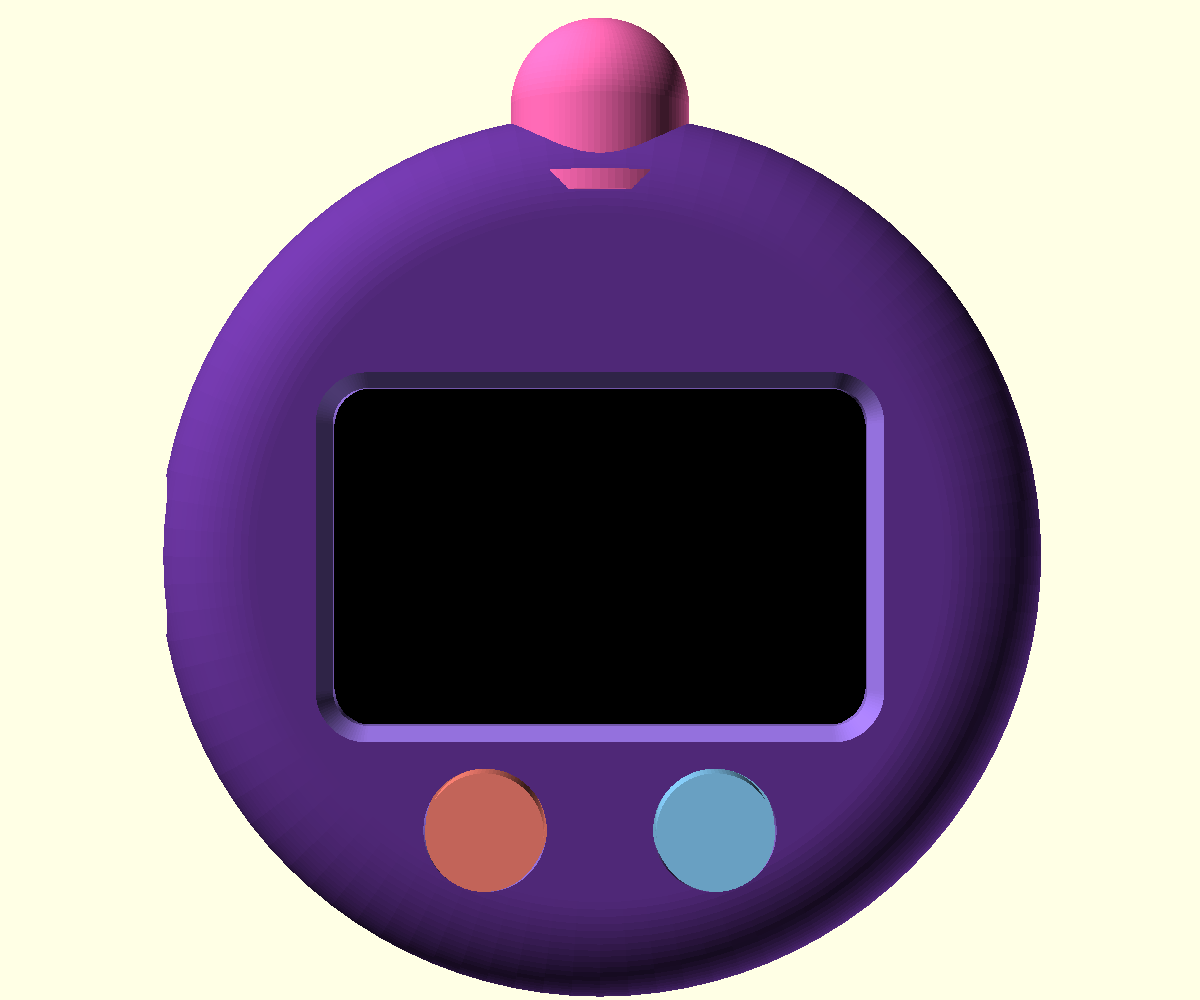
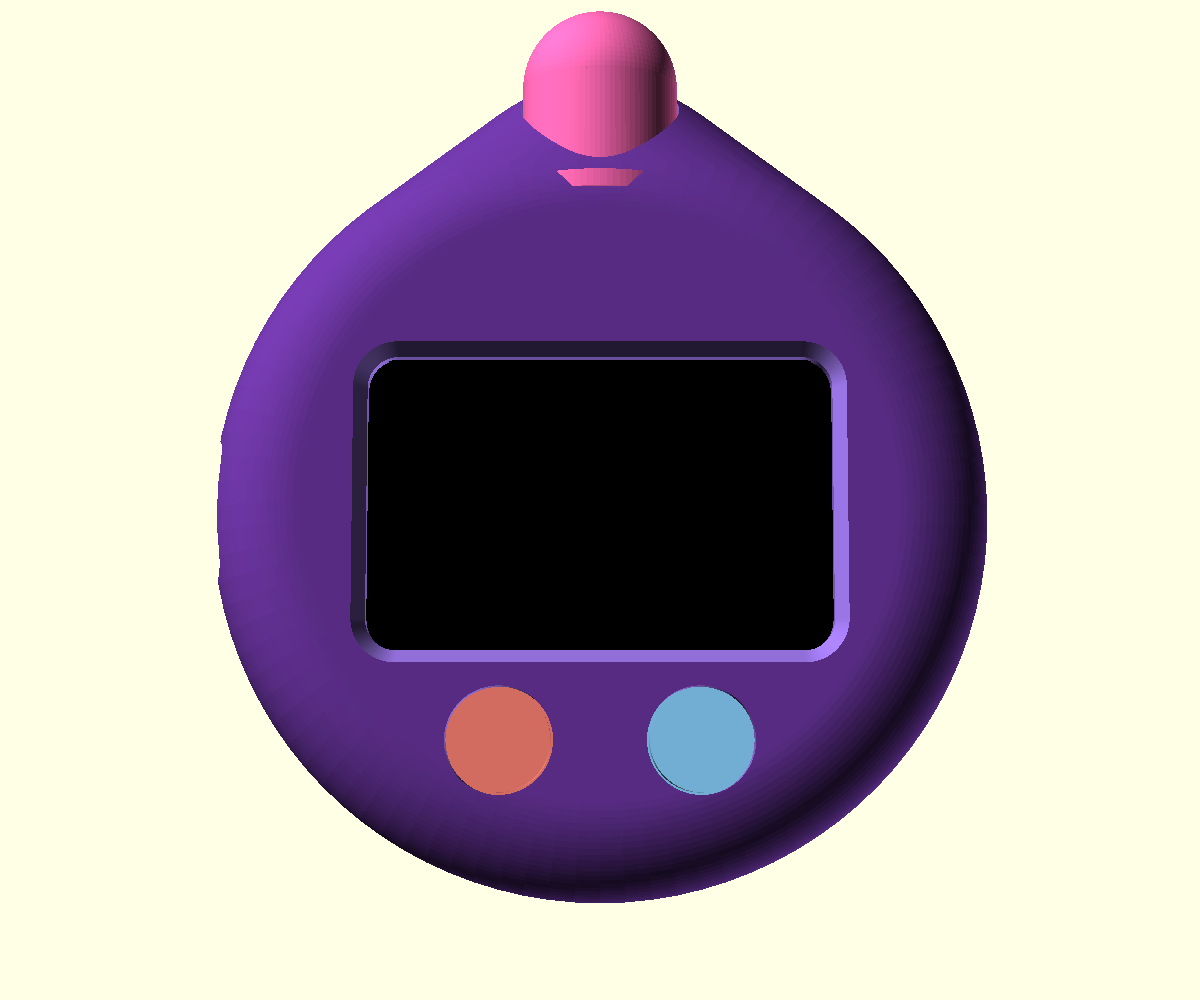
hardware: case v2 — sitting blob, screen tilted up at the user
The buddy now rests on a flat bottom with the whole face assembly
(window, buttons, board mount) leaned back 25 degrees so the screen
looks up at you. Boop dome stays on the crown, menu/reject below the
screen. Shell screws now drive through deep wells in the back; face
button switches glue onto columns in the body bowl.

diff --git a/hardware/case/README.md b/hardware/case/README.md
@@ -1,82 +1,79 @@
-# Boop Pebble Case (v1 form prototype)
+# Boop Pebble Case v2 — sitting blob (form prototype)
 
-Round tamagotchi-style enclosure for the Waveshare ESP32-S3-Touch-AMOLED-1.64
-("Boop Pebble"). 64 mm wide, 23 mm deep. Flat face with a landscape screen
-window, menu/reject button caps below the screen, big boop dome on top,
-domed back, USB-C slot on the left.
+Desk-buddy enclosure for the Waveshare ESP32-S3-Touch-AMOLED-1.64
+("Boop Pebble"). The buddy sits on a flat bottom; the whole face —
+screen window, menu/reject caps below it, and the board behind — tilts
+back 25° from vertical so the screen looks up at you. Big boop dome on
+the crown, soft domed back. Roughly 64 mm wide × 62 mm tall × 58 mm deep.
 
 Everything is generated from `boop-pebble-case.scad` (OpenSCAD). Compiled
-STLs are in `stl/`, preview renders in `renders/`.
+STLs are in `stl/` (gitignored, regenerate below), renders in `renders/`.
 
 ## What to print
 
 | File | Qty | Notes |
 | --- | --- | --- |
-| `stl/front_shell.stl` | 1 | Face already oriented down on the bed. No supports needed (window bridges are short). |
-| `stl/back_shell.stl` | 1 | Parting plane down. No supports. |
+| `stl/front_shell.stl` | 1 | Faceplate, face down on the bed. No supports (window bridges are short). |
+| `stl/back_shell.stl` | 1 | Body bowl, parting plane down. No supports; the flat tummy prints as a steep facet. |
 | `stl/boop_cap.stl` | 1 | Print **with supports** (flange overhangs). |
 | `stl/face_cap.stl` | 2 | Head-face down. Tiny part — print both at once. |
 
 Suggested settings: PLA or PETG, 0.2 mm layers, 3 walls, 15 % infill.
-Total print time roughly 3–4 h on a typical bed-slinger.
 
-## Measure before trusting (v1 caveats)
+## Measure before trusting (calipers, then regenerate)
 
-This is a **check-fit prototype**. Three dimensions were not measurable from
-the docs and are parameters at the top of the `.scad` — verify with calipers
-against the real board and regenerate if they differ:
+Parameters at the top of the `.scad`, unverifiable from docs:
 
-- `display_stack` (default 2.5) — height of the glass above the PCB front
-  face. Drives `standoff_h`; wrong value either crushes the glass or leaves
-  the board rattling.
-- `screen_dx` (default 0) — the active area is probably **not** centered on
-  the board (there is likely an FPC chin), which also explains why the spec'd
-  M2 holes land right at the window corners. Measure the offset of the lit
-  area from board center along the long axis and set it; the window shifts,
-  the standoffs stay at the spec'd 22.86 × 38.50 mm hole pattern.
-- `usb_w` / `usb_h` / `usb_z` — the USB-C slot is deliberately oversized
-  until the connector position is measured. The board mounts with USB-C
-  facing **left**.
+- `display_stack` (2.5) — glass height above the PCB front face; drives
+  standoff height. Wrong → crushed glass or rattling board.
+- `screen_dx` (0) — the active area is probably offset from board center
+  (FPC chin). Measure and set; the window shifts, the standoffs stay on
+  the spec'd 22.86 × 38.50 mm hole pattern.
+- `usb_w` / `usb_h` / `usb_z` — USB-C slot is oversized until measured.
+  The board mounts with USB-C toward the buddy's right (your **left** as
+  you face it).
+- `tilt` (25°) — how far the face leans back. Taste parameter.
 
-Known dimensions baked in from `research/eng/waveshare-amoled-port.md`:
+Known dims baked in from `research/eng/waveshare-amoled-port.md`:
 PCB 28.6 × 43.5 mm, M2 holes at 22.86 × 38.50 mm, active area 22.3 × 36.1 mm.
 
 ## Hardware (not printed)
 
 - 4× M2×5 self-tapping screws — board to standoffs (from the back of the PCB)
-- 3× M2×8 self-tapping screws — back shell to front shell bosses
-- 3× 6×6×4.3 mm through-hole tact switches, glued: two on the round pads
-  inside the back shell (under the face caps), one on the block behind the
-  boop bore (plunger facing the boop pusher)
-- LiPo up to ~602030 (6 × 20 × 30 mm), 1.25 mm plug — lives in the cavity
-  behind the board. **Meter connector polarity first** (per the port doc).
+- 3× M2×10 self-tapping screws — shell screws; they sit in deep wells and
+  drive through the three small channel openings on the buddy's back
+- 3× 6×6×4.3 mm tact switches, glued: two on the columns inside the body
+  bowl (under the face caps), one on the block behind the boop bore
+- LiPo up to ~602030, 1.25 mm plug — sits on the bowl floor.
+  **Meter connector polarity first** (per the port doc).
 
 ## Assembly
 
-1. Drop the two face caps into their holes from inside the front shell,
-   then the boop cap into its bore from inside (flange seats against the
-   guide-tube shoulder).
-2. Screw the board to the standoffs, screen against the window, USB-C left.
-3. Glue tact switches on their pads; trim/shim cap stems so each cap sits
-   proud at rest and clicks with ~1 mm of travel. Wire switches to header
-   GPIOs per the port plan (boop can go to GPIO0/BOOT).
-4. Connect battery, nest it behind the board, screw the back shell on.
+1. Drop the two face caps into their holes from inside the faceplate, then
+   the boop cap into its bore from inside (flange seats on the guide-tube
+   shoulder). The shell seam intentionally passes behind the boop crest.
+2. Screw the board to the standoffs, screen against the window, USB-C
+   toward the buddy's right.
+3. Glue tact switches on their columns/block; trim or shim cap stems so
+   each cap sits proud at rest and clicks with ~1 mm travel. Wire to
+   header GPIOs per the port plan (boop can go to GPIO0/BOOT).
+4. Battery on the bowl floor, then mate the faceplate and drive the three
+   M2×10 screws through the back wells.
 
-No RST access in v1 — recovery flashing means opening the case (3 screws).
+No RST access in v1 — recovery flashing means opening the case.
 
 ## Regenerating
 
 ```sh
 cd hardware/case
-# STLs
 for p in front_shell back_shell boop_cap face_cap; do
   openscad -q -D "part=\"$p\"" --backend Manifold -o "stl/$p.stl" boop-pebble-case.scad
 done
-# renders
-openscad -q -D 'part="assembly"' --imgsize=1200,1000 --camera=0,4,0,0,0,0,175 \
+openscad -q -D 'part="assembly"' --imgsize=1200,1000 --camera=0,0,26,72,0,180,215 \
   -o renders/assembly-face.png boop-pebble-case.scad
 ```
 
-`part` also accepts `assembly`, `exploded`, and `section` for visual checks
-(the section view is the quickest way to sanity-check wall thickness and
-button/switch geometry after changing parameters).
+`part` also accepts `assembly`, `exploded`, and `section`. The section
+view is the quickest sanity check on walls and button/switch geometry
+after changing parameters; the face plane is world-tilted, so eyeball new
+features there before printing.
